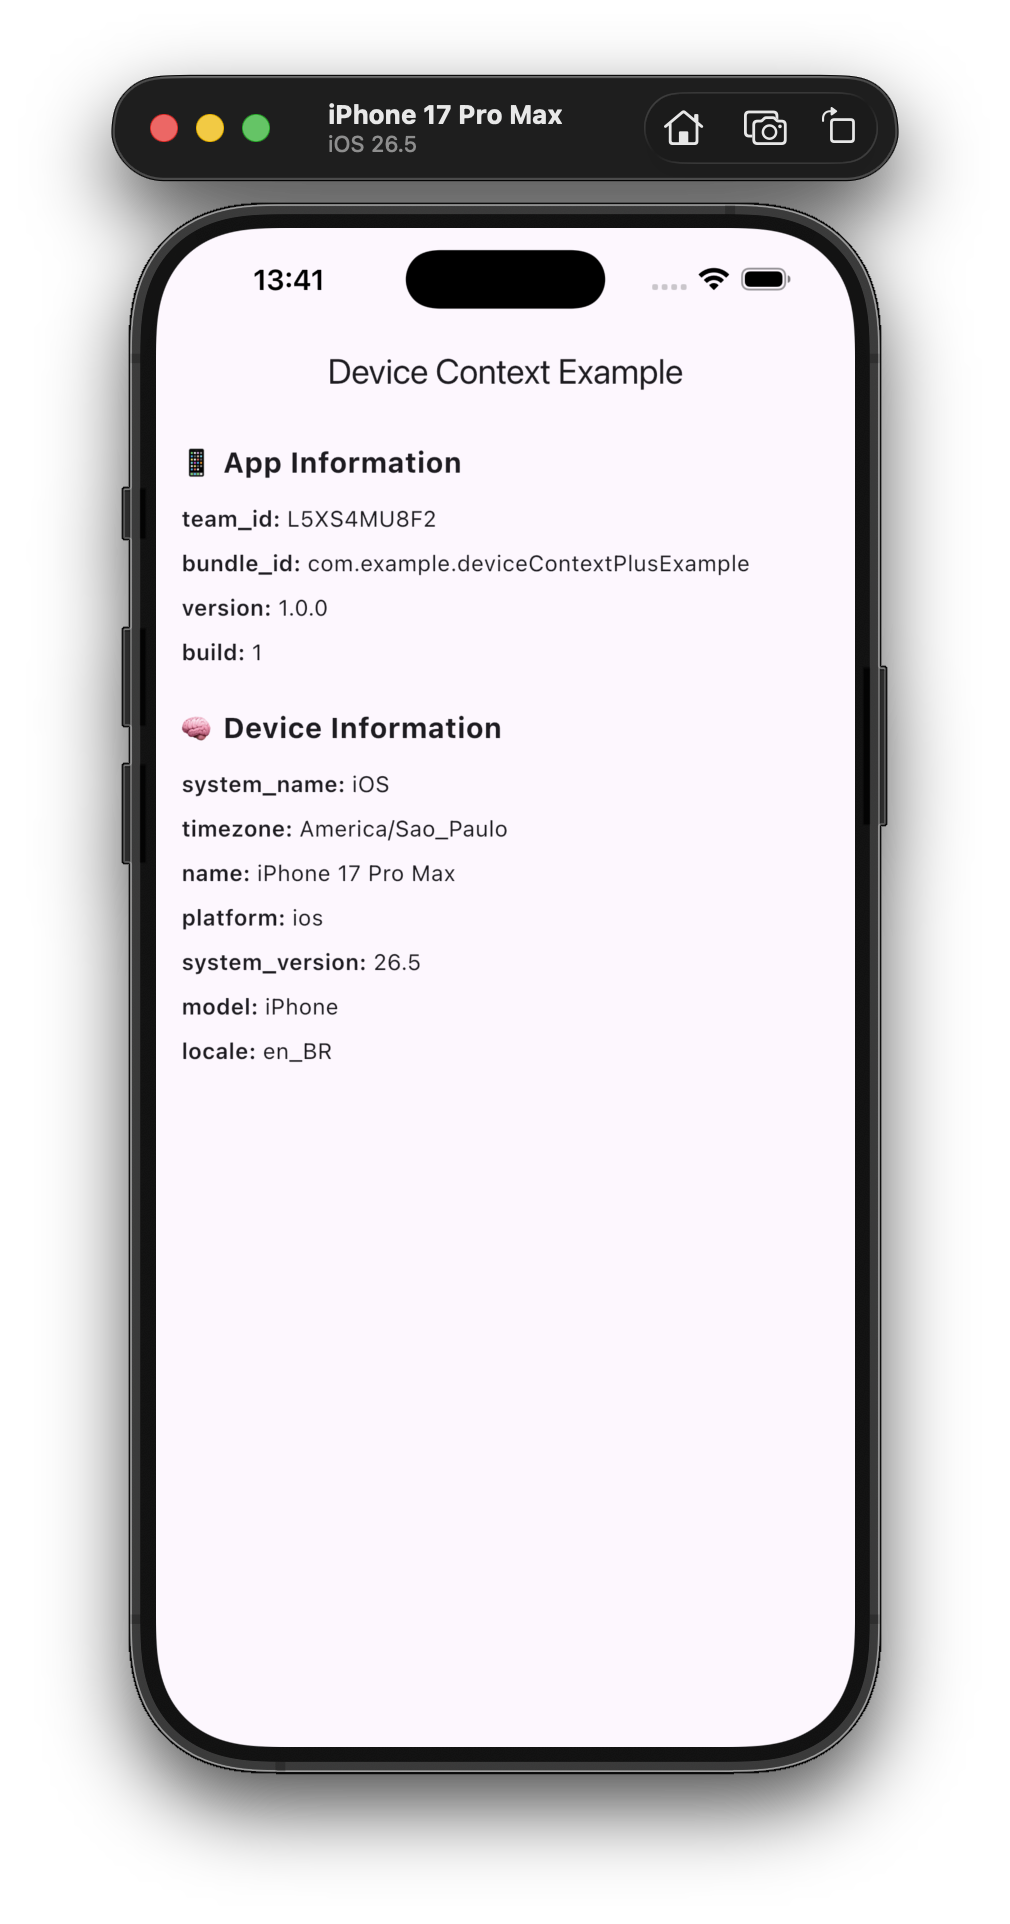
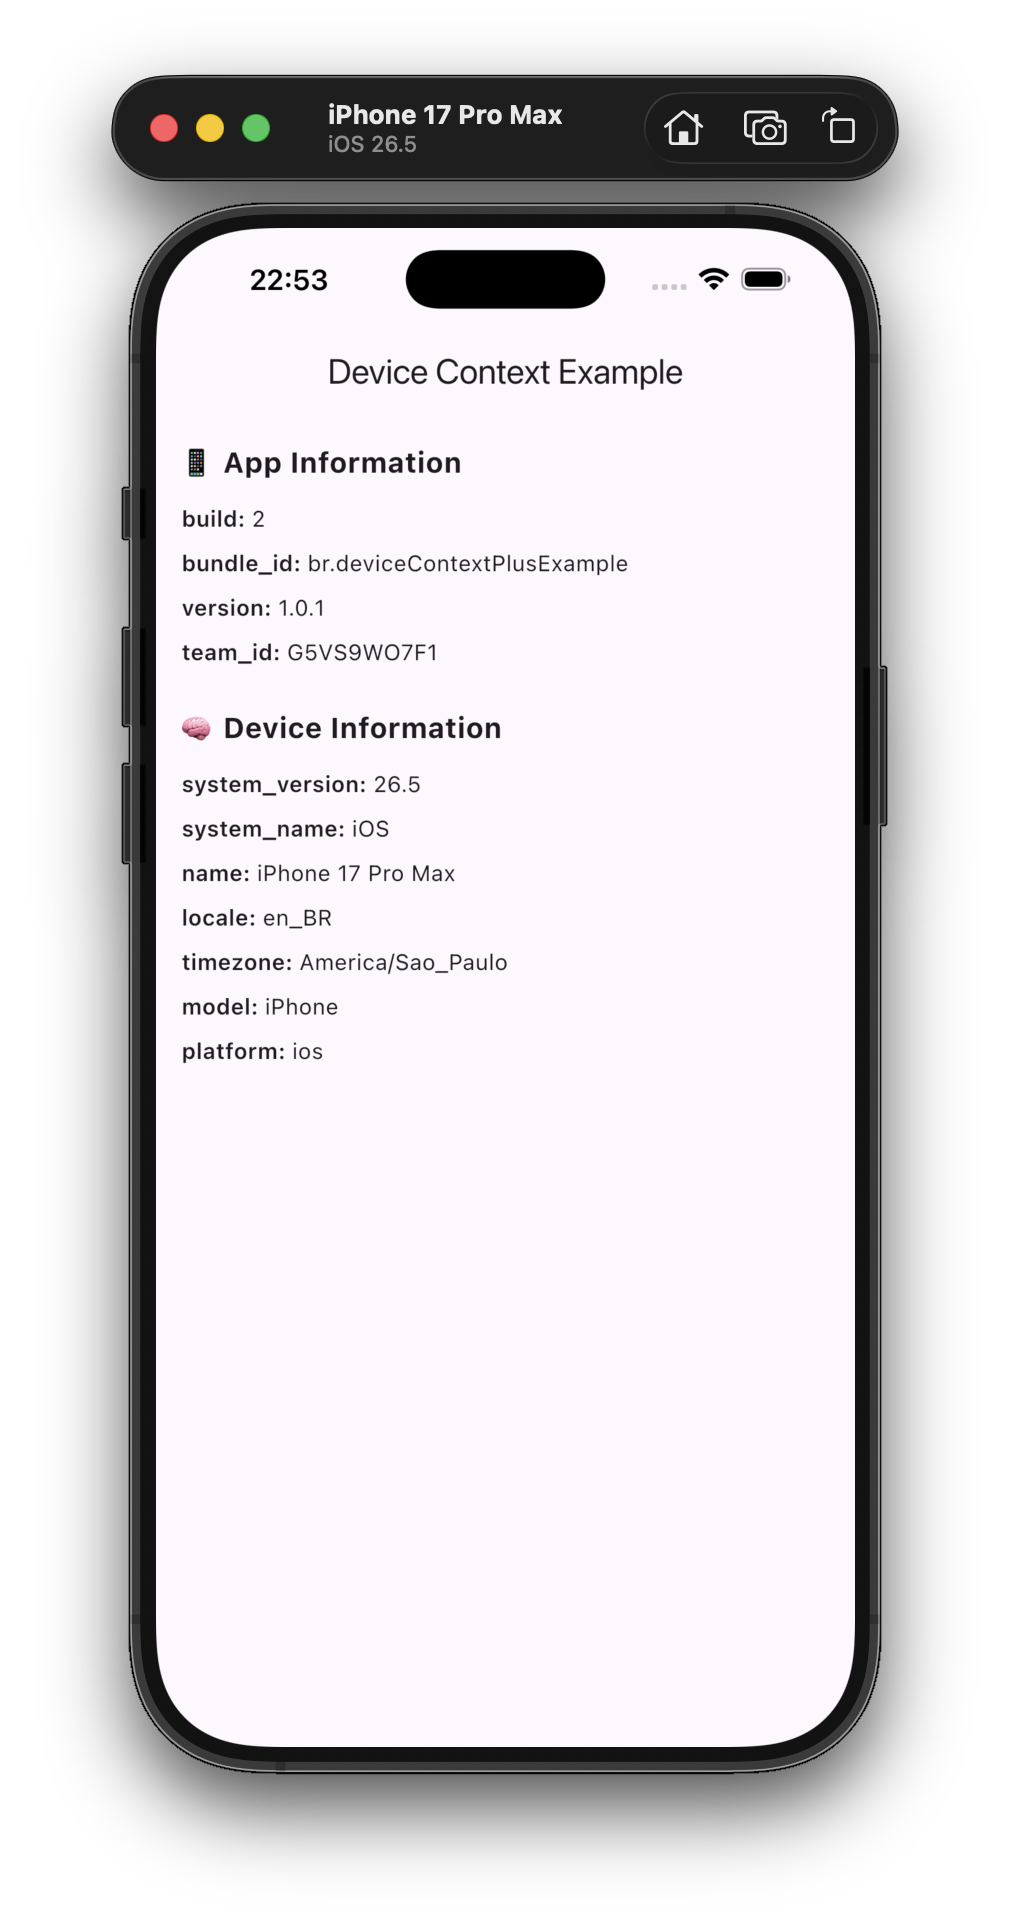
Mudança no pacote do MainActivity

diff --git a/CHANGELOG.md b/CHANGELOG.md
@@ -67,3 +67,9 @@ First stable release of `device_context_plus`.
 ### 🛠 Melhorias na documentação
 
 - Nome do metodo mudou de getContext para getAll
+
+## 1.0.2
+
+### 🛠 Melhorias na documentação
+
+- Mudança no pacote do MainActivity

diff --git a/README.md b/README.md
@@ -67,7 +67,7 @@ final device = await DeviceContextPlus.getDevice();
 ```json
 {
   "app": {
-    "bundle_id": "com.example.deviceContextPlusExample",
+    "bundle_id": "br.com.example.deviceContextPlusExample",
     "version": "1.0.0",
     "build": "1",
     "team_id": "G5VS9WO7F1"
@@ -115,5 +115,5 @@ Add the plugin to your `pubspec.yaml`:
 
 ```yaml
 dependencies:
-  device_context_plus: ^1.0.1
+  device_context_plus: ^1.0.2
 ```